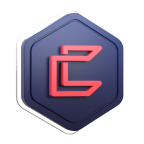
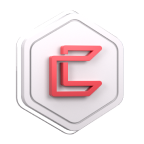
update: evm chain imgs
- ellipsising swap page token value

diff --git a/src/constants/chain/ethereum/network/dymension.ts b/src/constants/chain/ethereum/network/dymension.ts
@@ -1,5 +1,6 @@
 import { DYMENSION as COSMOS_DYMENSION } from '~/constants/chain/cosmos/dymension';
 import { MINTSCAN_URL } from '~/constants/common';
+import dymensionEVMChainImg from '~/images/chainImgs/dymension_evm.png';
 import type { EthereumNetwork } from '~/types/chain';
 
 export const DYMENSION: EthereumNetwork = {
@@ -8,7 +9,7 @@ export const DYMENSION: EthereumNetwork = {
   networkName: COSMOS_DYMENSION.chainName,
   rpcURL: 'https://rpc-dymension-evm.cosmostation.io',
   tokenImageURL: COSMOS_DYMENSION.tokenImageURL,
-  imageURL: COSMOS_DYMENSION.imageURL,
+  imageURL: dymensionEVMChainImg,
   displayDenom: COSMOS_DYMENSION.displayDenom,
   decimals: COSMOS_DYMENSION.decimals,
   explorerURL: `${MINTSCAN_URL}/dymension`,

diff --git a/src/constants/chain/ethereum/network/althea.ts b/src/constants/chain/ethereum/network/althea.ts
@@ -1,5 +1,6 @@
 import { ALTHEA as COSMOS_ALTHEA } from '~/constants/chain/cosmos/althea';
 import { MINTSCAN_URL } from '~/constants/common';
+import altheaEVMChainImg from '~/images/chainImgs/althea_evm.png';
 import type { EthereumNetwork } from '~/types/chain';
 
 export const ALTHEA: EthereumNetwork = {
@@ -8,7 +9,7 @@ export const ALTHEA: EthereumNetwork = {
   networkName: COSMOS_ALTHEA.chainName,
   rpcURL: 'https://rpc-althea-evm.cosmostation.io',
   tokenImageURL: COSMOS_ALTHEA.tokenImageURL,
-  imageURL: COSMOS_ALTHEA.imageURL,
+  imageURL: altheaEVMChainImg,
   displayDenom: COSMOS_ALTHEA.displayDenom,
   decimals: COSMOS_ALTHEA.decimals,
   explorerURL: `${MINTSCAN_URL}/althea`,

diff --git a/src/Popup/pages/Wallet/Swap/components/SwapCoinContainer/index.tsx b/src/Popup/pages/Wallet/Swap/components/SwapCoinContainer/index.tsx
@@ -134,9 +134,11 @@ export default function SwapCoinContainer({ isChainAvailable = true, ...remainde
         <FooterContainer>
           <FooterLeftContainer>
             {gt(remainder.tokenAmountPrice, '0') && (
-              <NumberText typoOfIntegers="h6n" typoOfDecimals="h7n" fixed={2} currency={currency}>
-                {remainder.tokenAmountPrice}
-              </NumberText>
+              <div>
+                <NumberText typoOfIntegers="h6n" typoOfDecimals="h7n" fixed={2} currency={currency}>
+                  {remainder.tokenAmountPrice}
+                </NumberText>
+              </div>
             )}
           </FooterLeftContainer>
           <FooterRightContainer>

diff --git a/src/constants/chain/ethereum/network/evmos.ts b/src/constants/chain/ethereum/network/evmos.ts
@@ -1,4 +1,5 @@
 import { EVMOS as COSMOS_EVMOS } from '~/constants/chain/cosmos/evmos';
+import evmosEVMChainImg from '~/images/chainImgs/evmos_evm.png';
 import type { EthereumNetwork } from '~/types/chain';
 
 export const EVMOS: EthereumNetwork = {
@@ -7,7 +8,7 @@ export const EVMOS: EthereumNetwork = {
   networkName: COSMOS_EVMOS.chainName,
   rpcURL: 'https://rpc-evmos-evm.cosmostation.io',
   tokenImageURL: COSMOS_EVMOS.tokenImageURL,
-  imageURL: COSMOS_EVMOS.imageURL,
+  imageURL: evmosEVMChainImg,
   displayDenom: COSMOS_EVMOS.displayDenom,
   decimals: COSMOS_EVMOS.decimals,
   explorerURL: 'https://mintscan.io/evmos',

diff --git a/src/constants/chain/ethereum/network/kava.ts b/src/constants/chain/ethereum/network/kava.ts
@@ -1,4 +1,5 @@
 import { KAVA as COSMOS_KAVA } from '~/constants/chain/cosmos/kava';
+import kavaEVMChainImg from '~/images/chainImgs/kava_evm.png';
 import type { EthereumNetwork } from '~/types/chain';
 
 export const KAVA: EthereumNetwork = {
@@ -7,7 +8,7 @@ export const KAVA: EthereumNetwork = {
   networkName: 'KAVA EVM',
   rpcURL: 'https://rpc-kava-evm.cosmostation.io',
   tokenImageURL: COSMOS_KAVA.tokenImageURL,
-  imageURL: COSMOS_KAVA.imageURL,
+  imageURL: kavaEVMChainImg,
   displayDenom: COSMOS_KAVA.displayDenom,
   decimals: 18,
   explorerURL: 'https://kavascan.io',

diff --git a/src/constants/chain/ethereum/network/canto.ts b/src/constants/chain/ethereum/network/canto.ts
@@ -1,4 +1,4 @@
-import cantoChainImg from '~/images/chainImgs/canto.png';
+import cantoEVMChainImg from '~/images/chainImgs/canto_evm.png';
 import cantoTokenImg from '~/images/symbols/canto.png';
 import type { EthereumNetwork } from '~/types/chain';
 
@@ -8,7 +8,7 @@ export const CANTO: EthereumNetwork = {
   networkName: 'CANTO',
   rpcURL: 'https://rpc-canto-evm.cosmostation.io',
   tokenImageURL: cantoTokenImg,
-  imageURL: cantoChainImg,
+  imageURL: cantoEVMChainImg,
   displayDenom: 'CANTO',
   decimals: 18,
   explorerURL: 'https://mintscan.io/canto',

diff --git a/src/Popup/pages/Wallet/Swap/components/SwapCoinContainer/styled.tsx b/src/Popup/pages/Wallet/Swap/components/SwapCoinContainer/styled.tsx
@@ -121,6 +121,16 @@ export const FooterContainer = styled('div')({
 });
 
 export const FooterLeftContainer = styled('div')(({ theme }) => ({
+  width: '60%',
+  maxWidth: '100%',
+
+  whiteSpace: 'nowrap',
+  wordBreak: 'keep-all',
+
+  '& > *': {
+    overflow: 'hidden !important',
+    textOverflow: 'ellipsis',
+  },
   color: theme.colors.text02,
 }));
 
